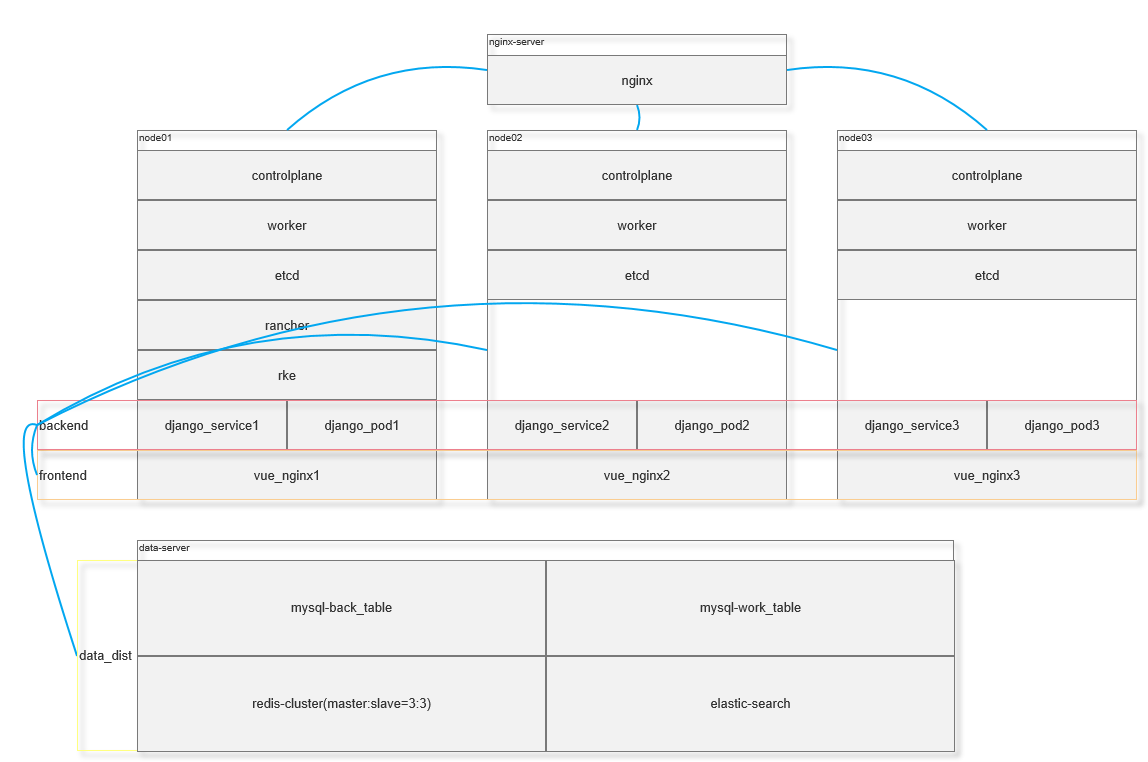
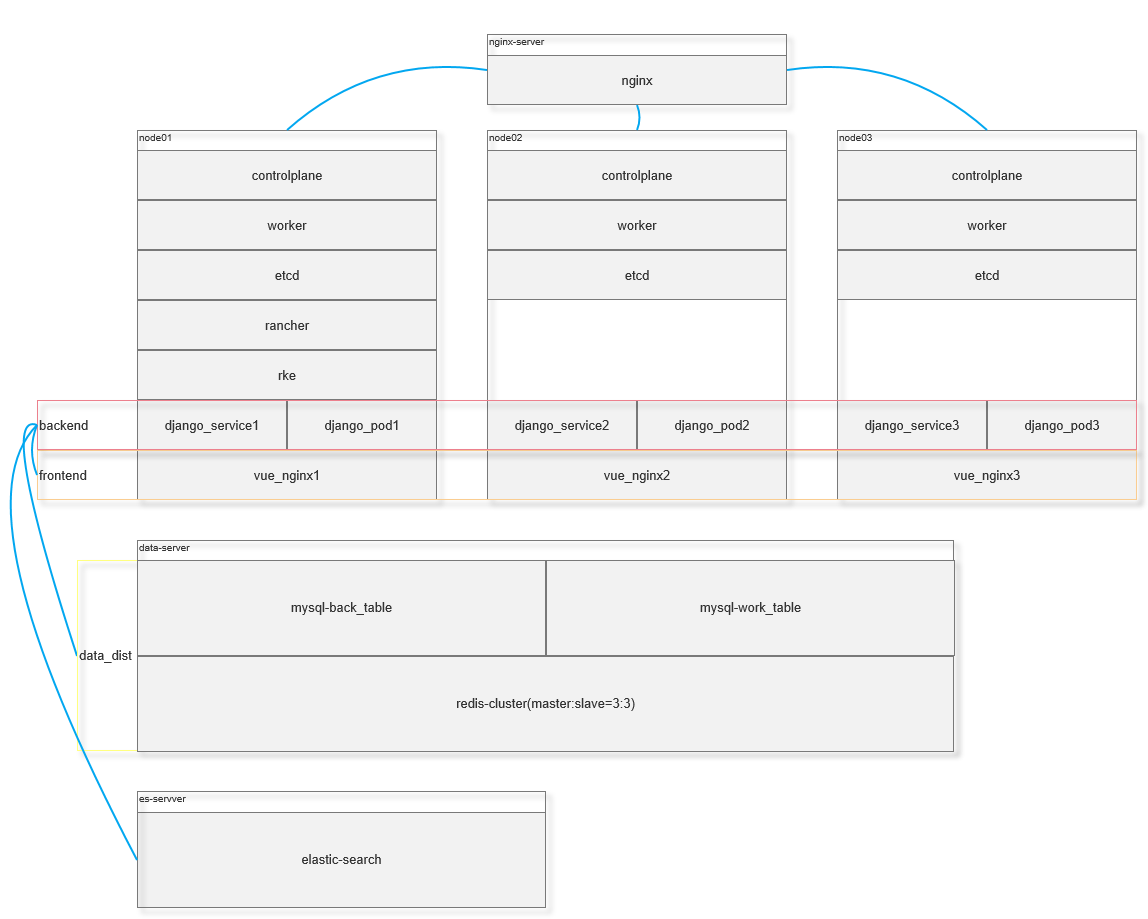
docx: change structure

diff --git a/README.md b/README.md
@@ -28,7 +28,7 @@ mysql单点放置在node02中会增大开支，并且做为备份而存在的数
 
 ![structure_2](image/structure_2.png)
 
-主体仍然是三个服务器，对于之前的问题1和问题2，单独使用了一个数据服务器来存储数据，只需要挂载一个大容量数据盘；对于之前问题3和问题4，使用一台负载均衡服务器，对在节点服务器上的服务进行转发，从而实现负载均衡。
+主体仍然是三个服务器，对于之前的问题1和问题2，单独使用了一个数据服务器来存储数据，只需要挂载一个大容量数据盘；对于之前问题3和问题4，使用一台负载均衡服务器，对在节点服务器上的服务进行转发，从而实现负载均衡。elastic-search比较吃内存，单独放在一个高性能的云服务器中。
 
 ### Makefile
 
